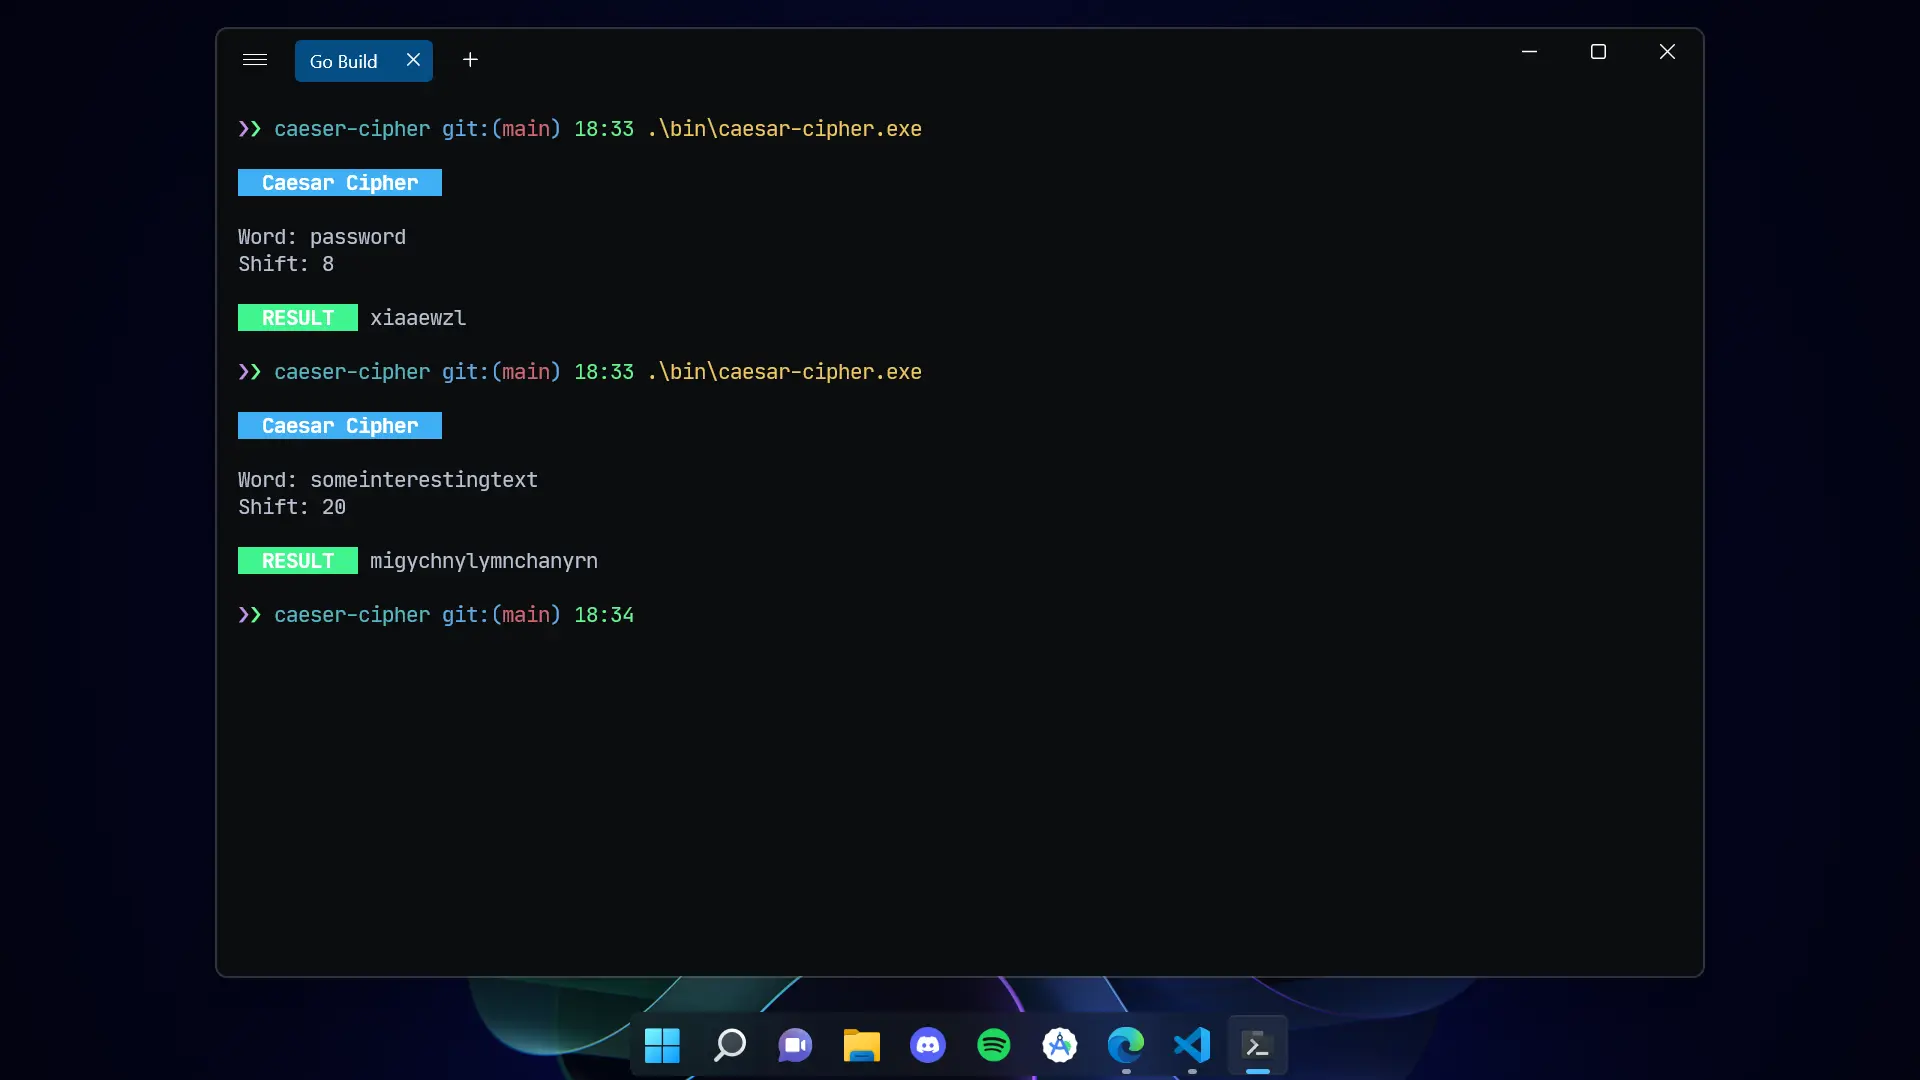
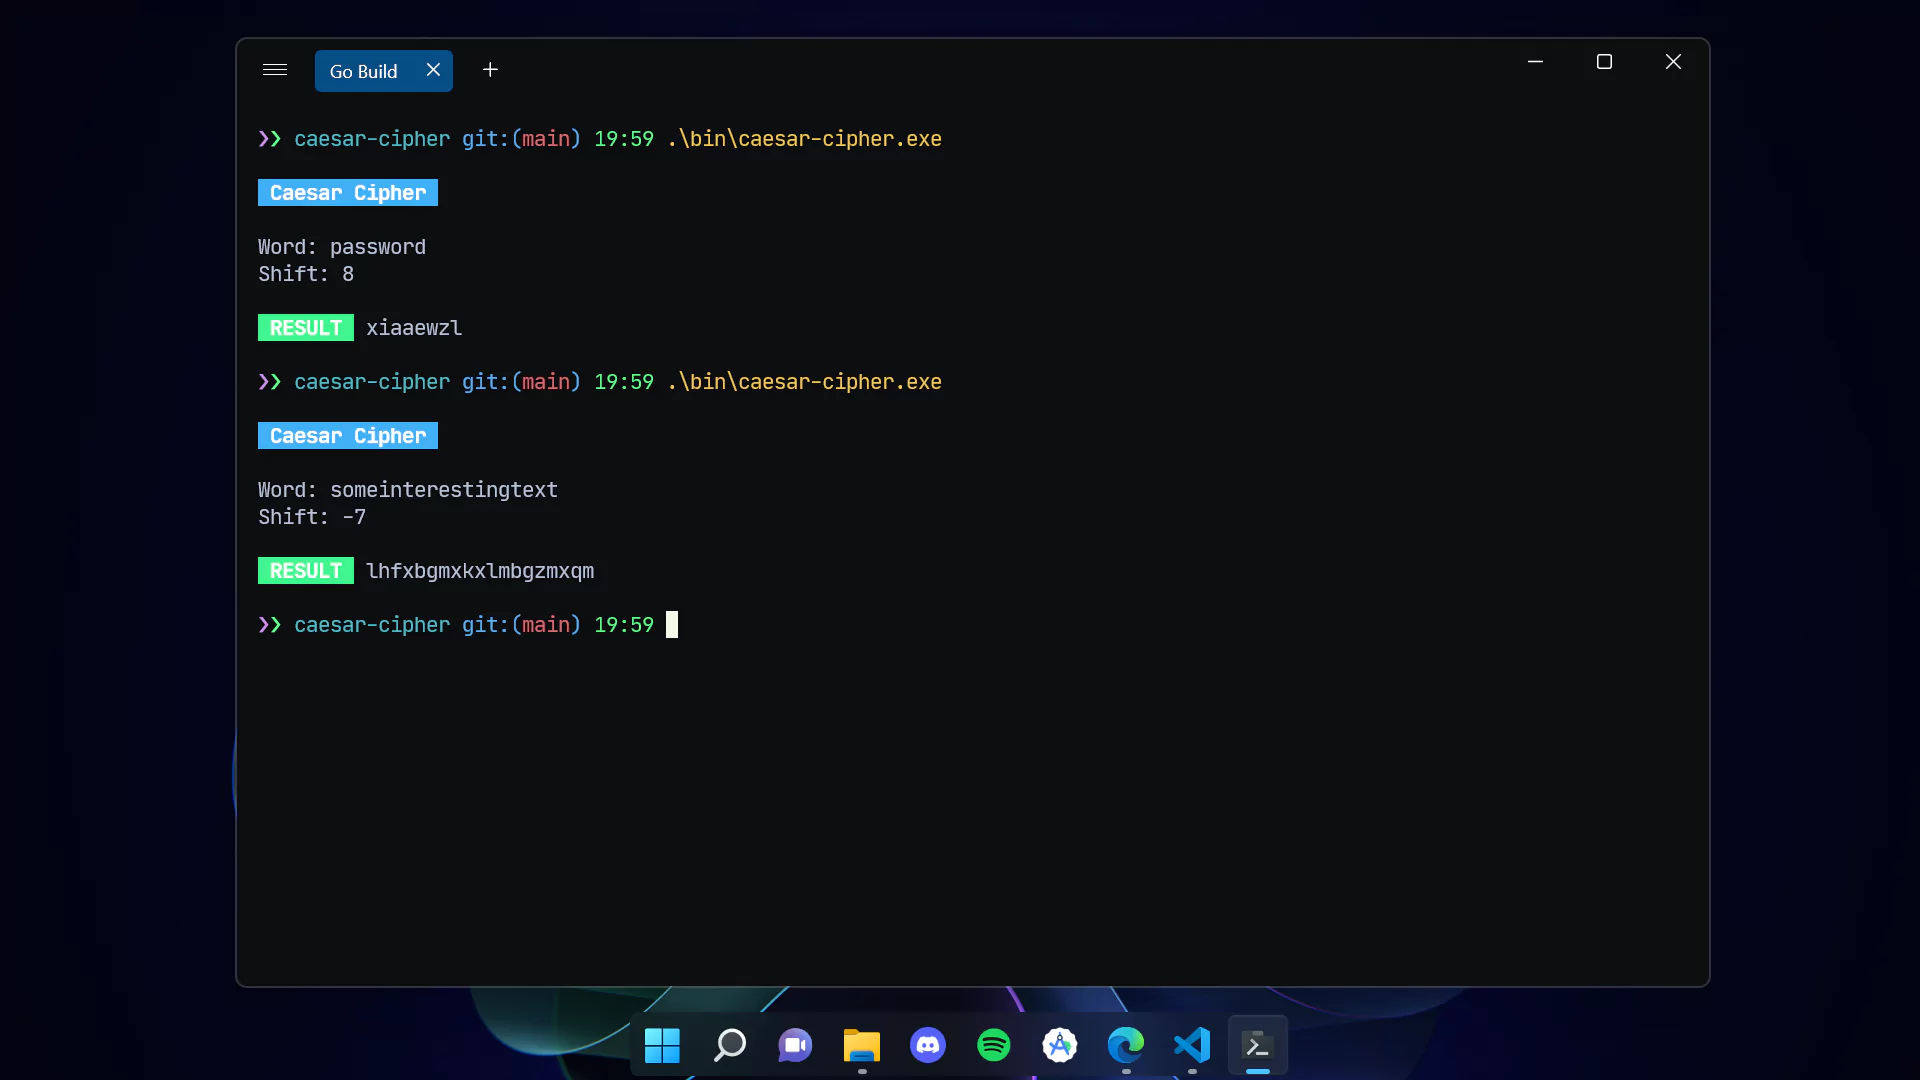
`CHORE` Minor bug fixes and refactoring

diff --git a/log/log.go b/log/log.go
@@ -11,8 +11,8 @@ func Title(word string) {
 		Bold(true).
 		Foreground(lipgloss.Color("231")).
 		Background(lipgloss.Color("#42B0F5")).
-		PaddingLeft(2).
-		PaddingRight(2).
+		PaddingLeft(1).
+		PaddingRight(1).
 		Align(lipgloss.Center)
 
 	fmt.Println()
@@ -25,8 +25,8 @@ func Error(err error) {
 		Bold(true).
 		Foreground(lipgloss.Color("231")).
 		Background(lipgloss.Color("#FF584D")).
-		PaddingLeft(2).
-		PaddingRight(2).
+		PaddingLeft(1).
+		PaddingRight(1).
 		Align(lipgloss.Center)
 
 	fmt.Println()
@@ -39,8 +39,8 @@ func Result(res string) {
 		Bold(true).
 		Foreground(lipgloss.Color("231")).
 		Background(lipgloss.Color("#42F590")).
-		PaddingLeft(2).
-		PaddingRight(2).
+		PaddingLeft(1).
+		PaddingRight(1).
 		Align(lipgloss.Center)
 
 	fmt.Println()
